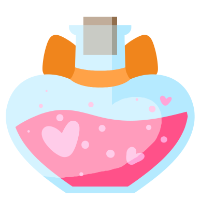
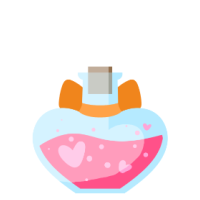
new images, item info

diff --git a/potions/index.html b/potions/index.html
@@ -63,24 +63,24 @@
 	</div>
 	
 	<div class="options">
-	<p style="float: left;"><img src="/startusk/i/wip.png"></p>
+	<p style="float: left;"><img src="/startusk/i/hangover.png"></p>
 	<p class="name">Get-Over</p>
 	<p class="dosage">25s - Duration: Instant - Suggested Dosage: 1 bottle</p>
 	<p class="description">A light purple potion in a standard flask. Relieves the symptoms of a hangover; consists of a mild, quick-acting painkiller and an electrolyte solution for hydration purposes. Tastes like watered-down juice.</p>
 	</div>
 	
 	<div class="options">
-	<p style="float: left;"><img src="/startusk/i/wip.png"></p>
+	<p style="float: left;"><img src="/startusk/i/hydro.png"></p>
 	<p class="name">Hydro-Bye</p>
 	<p class="dosage">10s - Duration: 6h - Suggested Dosage: ⅓ bottle</p>
-	<p class="description">A dark blue potion in a teardrop-shaped bottle. Water will simply roll off of whatever the potion is poured onto-- and the potion itself will not stain or otherwise discolor anything once poured. Ideal for those that need to take flight in rainy weather, such as bird-based or insect-based races.</p>
+	<p class="description">A dark blue potion in a teardrop-shaped bottle. Water will simply roll off of whatever the potion is poured onto-- and the potion itself will not stain or otherwise discolor anything once applied. Ideal for those that need to take flight in rainy weather, such as bird-based or insect-based races.</p>
 	</div>
 
 	<div class="options">
 	<p style="float: left;"><img src="/startusk/i/vaporweight.png"></p>
 	<p class="name">Vaporweight</p>
 	<p class="dosage">5s - Duration: 1h - Suggested Dosage: 1 mouthful</p>
-	<p class="description">A blue, foamy potion in a decorative bottle. Causes the drinker to be far, far easier to lift than they usually are. Useful for medical situations where a larger patient must be moved by a smaller healer. Tastes like rainwater.</p>
+	<p class="description">A blue, foamy potion in a decorative bottle. Causes the drinker to be far, far easier to lift than they usually are. Useful for medical situations where a larger patient must be moved by a smaller healer. Tastes like rainwater. Topical version now available.</p>
 	</div>
 
 	<div class="options">
@@ -203,7 +203,7 @@
 	</div>
 	
 	<div class="options">
-	<p style="float: left;"><img src="/startusk/i/wip.png"></p>
+	<p style="float: left;"><img src="/startusk/i/phaser.png"></p>
 	<p class="name">Phaser</p>
 	<p class="dosage">10s - Duration: 30s - Suggested Dosage: 1 shot</p>
 	<p class="description">A ghostly white elixir in a bottle the size of a shot glass. When taken, it allows the user a short window in which they can go through walls or other solid objects of their choosing. Using this to escape prison cells or other means of legal confinement is not advised nor endorsed.</p>

diff --git a/goodies/index.html b/goodies/index.html
@@ -78,10 +78,31 @@
 	</div>
 	
 	<div class="options">
-	<p style="float: left;"><img src="/startusk/i/wip.png"></p>
+	<p style="float: left;"><img src="/startusk/i/ink.png"></p>
 	<p class="name">Writing Inks</p>
 	<p class="dosage">3s - (no blueprint)</p>
     <p class="description">Various kinds of writing ink. Options include standard colors, rainbow shimmer, glowy, trackable, waterproof, transferable, and various scented inks.<br><br>Further details given upon request.</p>
+	</div>
+	
+	<div class="options">
+	<p style="float: left;"><img src="/startusk/i/wip.png"></p>
+	<p class="name">aaa</p>
+	<p class="dosage">aaa</p>
+    <p class="description">aaa</p>
+	</div>
+	
+	<div class="options">
+	<p style="float: left;"><img src="/startusk/i/wip.png"></p>
+	<p class="name">aaa</p>
+	<p class="dosage">aaa</p>
+    <p class="description">aaa</p>
+	</div>
+	
+	<div class="options">
+	<p style="float: left;"><img src="/startusk/i/wip.png"></p>
+	<p class="name">aaa</p>
+	<p class="dosage">aaa</p>
+    <p class="description">aaa</p>
 	</div>
 </div>
 

diff --git a/reagents/index.html b/reagents/index.html
@@ -52,6 +52,7 @@
 	<li>Pouch of bamboo chips - 10c</li>
 	<li>Pouch of shiny pebbles - 1c</li>
 	<li>Bottle of charcoal powder - 1s</li>
+	<li>Herbal extracts / oils - 2s</li>
 	</p>
 	</div>
 	
